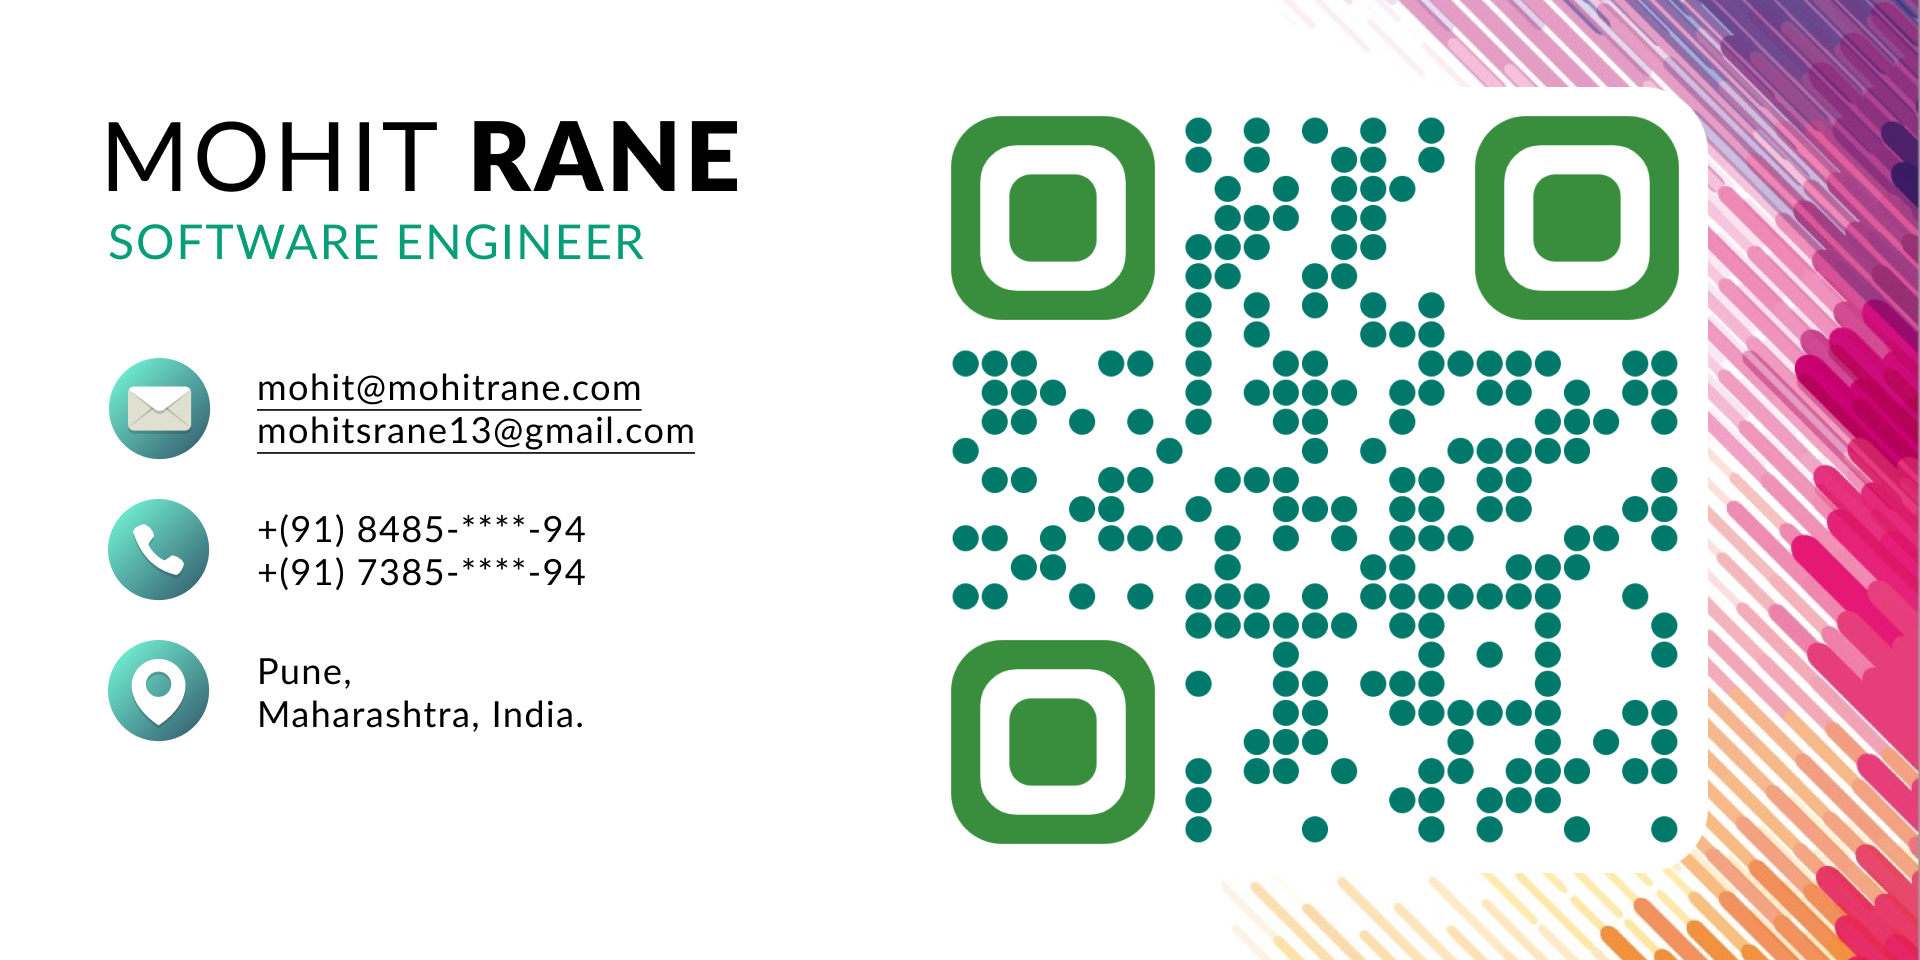
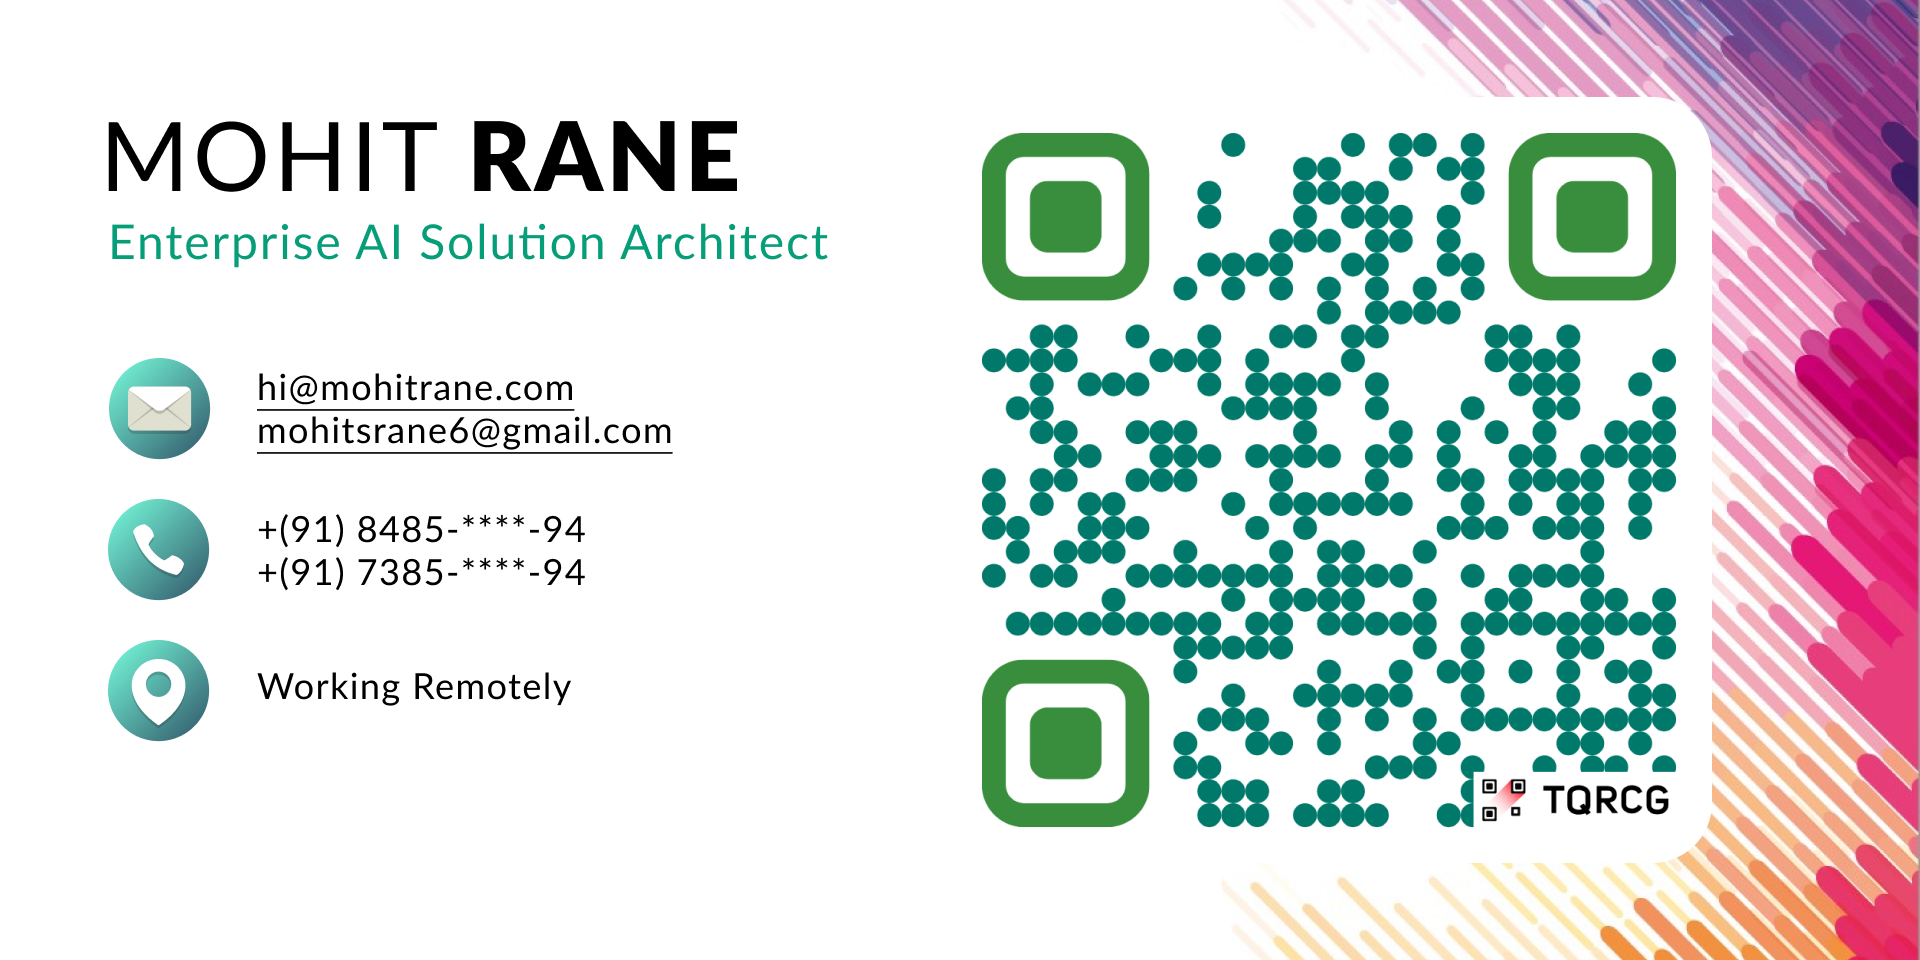
domainname change

diff --git a/README.md b/README.md
@@ -1,4 +1,4 @@
-![logo](msr-mask-vc-card-v3.png)
+![logo](msr-mask-vc-card.png)
 
 <h1 align="center">Mohit Rane</h1>
 <h2 align="center">Founding Architect | Context-Intelligent Systems | Enterprise AI</h2>
@@ -61,7 +61,7 @@ In parallel, I design and ship:
 Much of this work happens under NDA.
 The patterns are consistent.
 
-> More projects: [📁 Mohit Coding Lab](https://github.com/msranedotcom) (coming soon: split public/private showcases)
+> More projects: [📁 Mohit Coding Lab](https://github.com/mohitranedotcom) (coming soon: split public/private showcases)
 
 <br><br>
 <img src="https://i.imgur.com/dBaSKWF.gif" height="20" width="100%">
@@ -118,8 +118,8 @@ I share longer-form thinking and architectural essays elsewhere.
 <img src="https://i.imgur.com/dBaSKWF.gif" height="20" width="100%">
 ## Find More
 
-- 🌐 **Website:** https://www.msrane.com  
-- 💼 **LinkedIn:** https://linkedin.com/in/msranedotcom  
+- 🌐 **Website:** https://www.mohitrane.com  
+- 💼 **LinkedIn:** https://linkedin.com/in/mohitranedotcom  
 
 If you’re looking for someone to “just build features”
 this profile will probably feel heavy.
@@ -131,9 +131,9 @@ we’ll likely have a good conversation.
 <br>
 <h3 align="left">Elsewhere</h3>
 <p align="left">
- <a href="https://x.com/MSRanedotcom" target="blank"><img align="center" src="https://raw.githubusercontent.com/rahuldkjain/github-profile-readme-generator/master/src/images/icons/Social/twitter.svg" alt="MSRanedotcom" height="30" width="40" /></a>
-<a href="https://linkedin.com/in/msranedotcom/" target="blank"><img align="center" src="https://raw.githubusercontent.com/rahuldkjain/github-profile-readme-generator/master/src/images/icons/Social/linked-in-alt.svg" alt="mohitrane" height="30" width="40" /></a>
-<a href="https://www.msrane.com" target="blank"><img align="center" src="./m-logo-gif.gif" alt="mohit rane" height="40" width="40" /></a>
+ <a href="https://x.com/mohitranedotcom" target="blank"><img align="center" src="https://raw.githubusercontent.com/rahuldkjain/github-profile-readme-generator/master/src/images/icons/Social/twitter.svg" alt="mohitranedotcom" height="30" width="40" /></a>
+<a href="https://linkedin.com/in/mohitranedotcom/" target="blank"><img align="center" src="https://raw.githubusercontent.com/rahuldkjain/github-profile-readme-generator/master/src/images/icons/Social/linked-in-alt.svg" alt="mohitrane" height="30" width="40" /></a>
+<a href="https://www.mohitrane.com" target="blank"><img align="center" src="./m-logo-gif.gif" alt="mohit rane" height="40" width="40" /></a>
 </p>
 
 <br><br><br>
